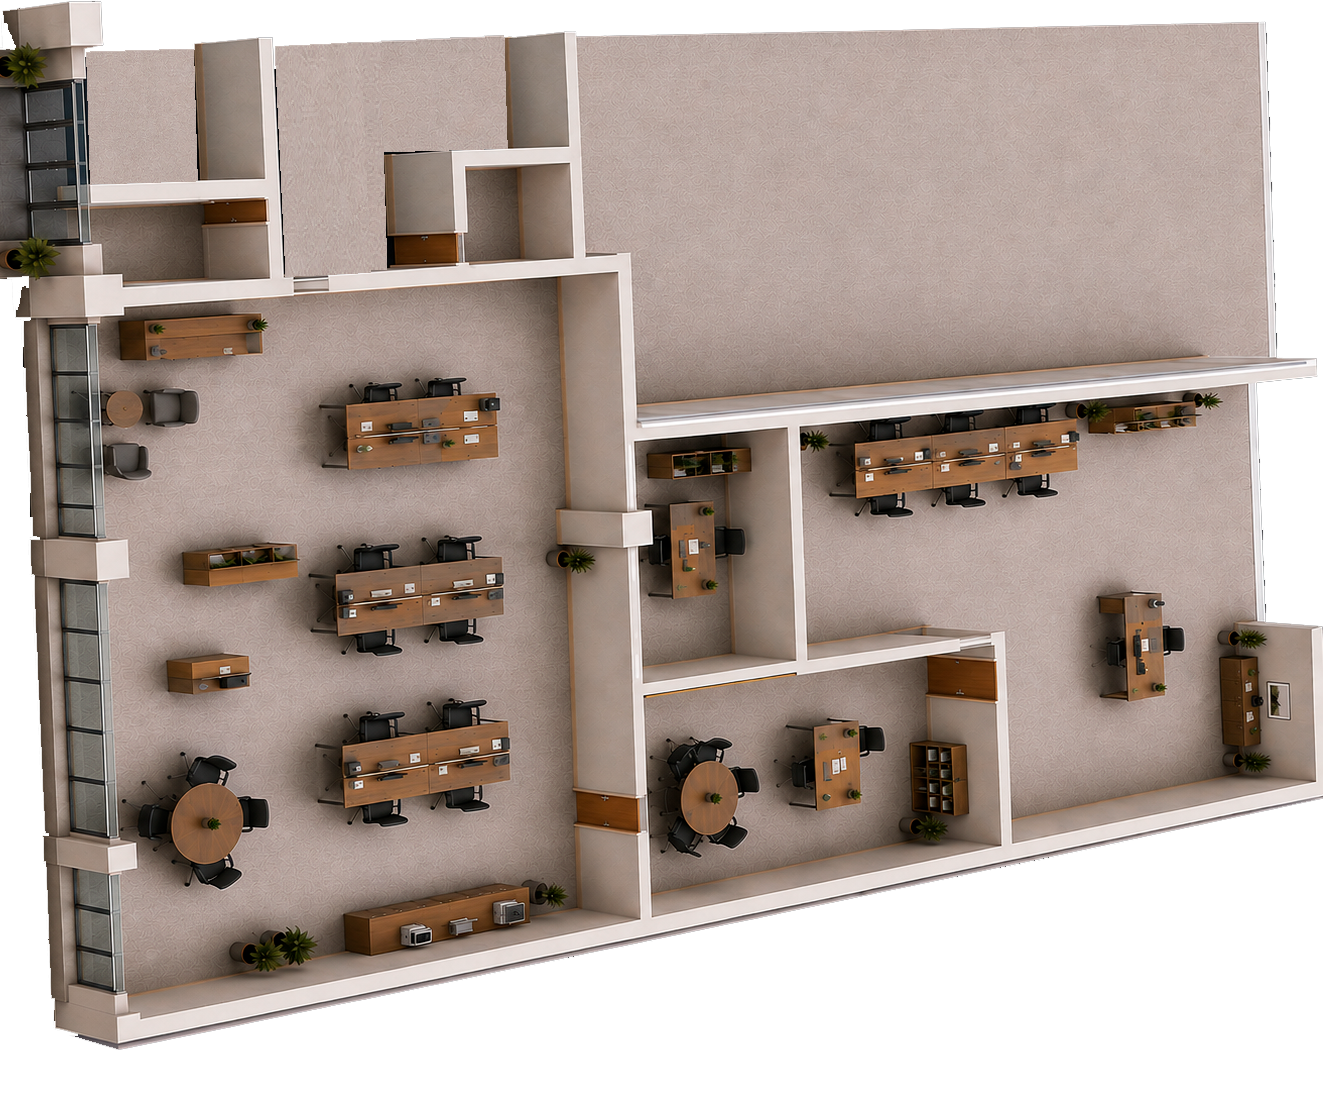
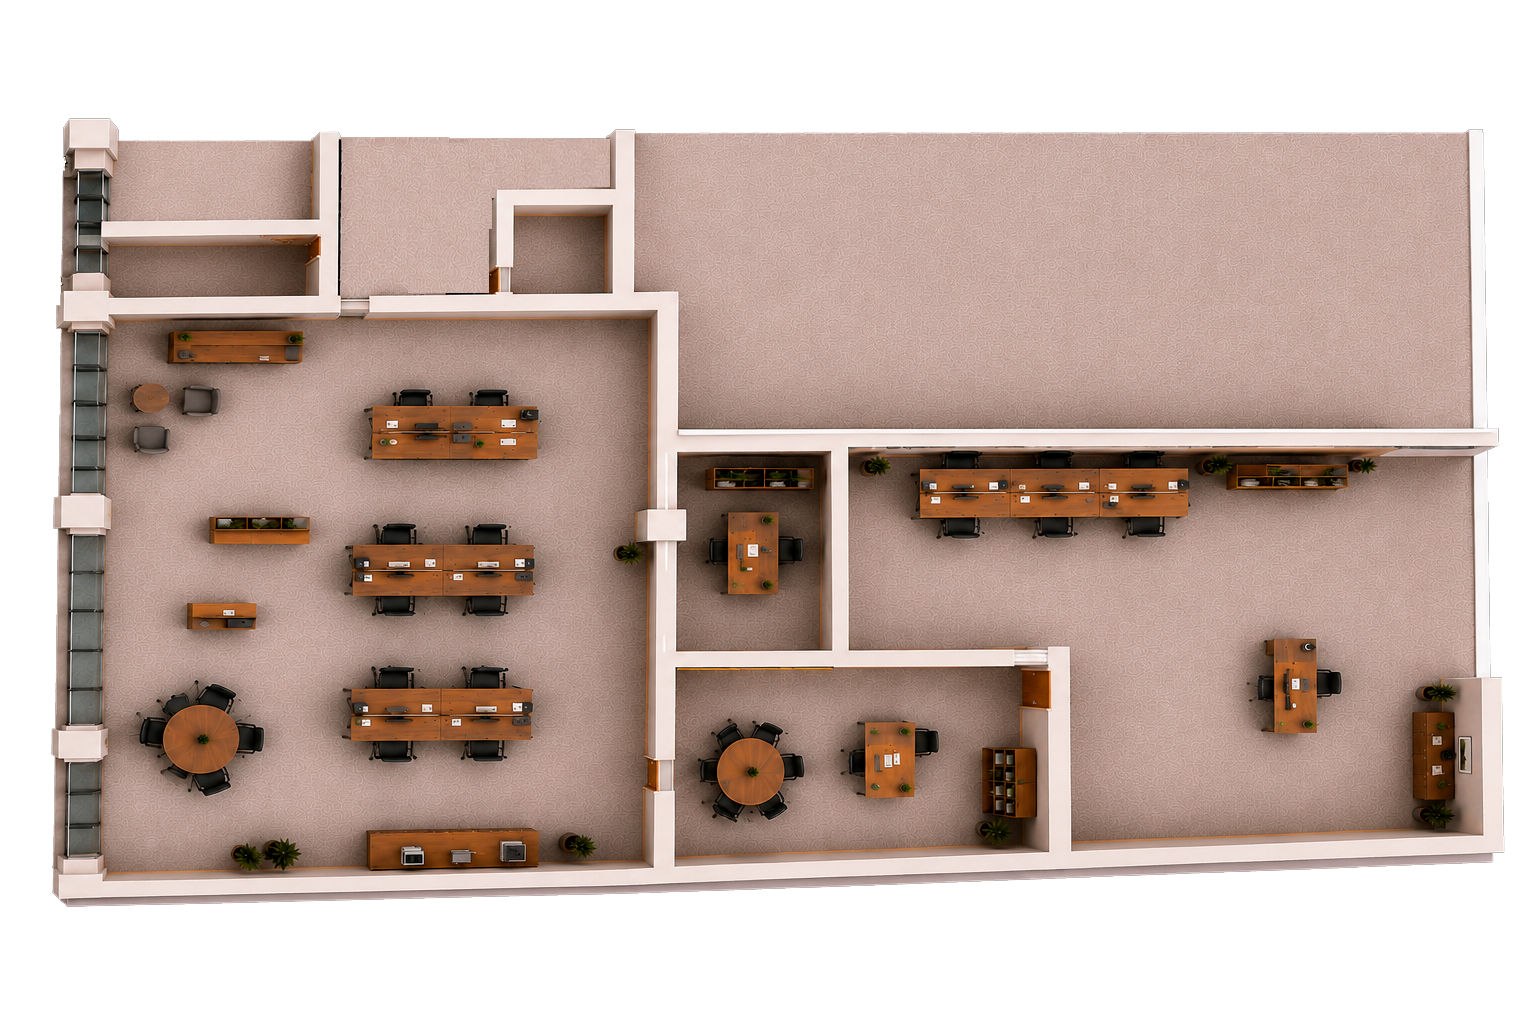
planta certa

diff --git a/src/routes/index.tsx b/src/routes/index.tsx
@@ -218,23 +218,23 @@ const sensorRegistry: Sensor[] = [
 ];
 
 const sensorMapPositions: Record<string, { x: number; y: number }> = {
-  // Distribuição provisória mais aberta e harmônica sobre a planta horizontal.
-  // Estes pontos devem ser recalibrados quando o cliente definir a posição física real.
-  "EM300-01": { x: 12, y: 69 },
-  "EM300-02": { x: 26, y: 66 },
-  "EM300-03": { x: 40, y: 69 },
-  "EM300-04": { x: 55, y: 66 },
-  "EM300-05": { x: 70, y: 69 },
-  "EM300-06": { x: 86, y: 66 },
-  "AM103L-07": { x: 12, y: 28 },
-  "AM103L-08": { x: 28, y: 24 },
-  "AM103L-09": { x: 44, y: 28 },
-  "AM103L-10": { x: 62, y: 24 },
-  "AM103L-11": { x: 82, y: 28 },
-  "AM103L-12": { x: 18, y: 47 },
-  "AM103L-13": { x: 38, y: 46 },
-  "AM103L-14": { x: 59, y: 48 },
-  "AM103L-15": { x: 78, y: 47 },
+  // Posições provisórias recalibradas para a planta Fleury final, horizontal e sem perspectiva.
+  // Estes pontos devem ser ajustados quando o cliente validar a posição física real dos sensores.
+  "EM300-01": { x: 14, y: 70 },
+  "EM300-02": { x: 32, y: 61 },
+  "EM300-03": { x: 43, y: 62 },
+  "EM300-04": { x: 55, y: 62 },
+  "EM300-05": { x: 64, y: 64 },
+  "EM300-06": { x: 88, y: 61 },
+  "AM103L-07": { x: 12, y: 34 },
+  "AM103L-08": { x: 30, y: 31 },
+  "AM103L-09": { x: 47, y: 34 },
+  "AM103L-10": { x: 66, y: 30 },
+  "AM103L-11": { x: 85, y: 36 },
+  "AM103L-12": { x: 20, y: 51 },
+  "AM103L-13": { x: 38, y: 50 },
+  "AM103L-14": { x: 56, y: 48 },
+  "AM103L-15": { x: 76, y: 48 },
 };
 
 function mapPosition(sensor: Sensor) {
@@ -995,15 +995,15 @@ function DigitalTwinMap({ sensors, layer, period, onLayerChange, onSelectSensor 
       <div className="relative rounded-xl overflow-hidden border border-white/10 bg-[radial-gradient(circle_at_50%_45%,rgba(14,165,233,.13),transparent_48%),linear-gradient(135deg,#020617,#071426_55%,#020617)] h-full min-h-0">
         <div className="absolute inset-0 bg-[radial-gradient(circle_at_52%_52%,rgba(56,189,248,.09),transparent_46%)]" />
         <div className="floorplan-stage absolute inset-0 overflow-hidden">
-          <div className="absolute left-1/2 top-1/2 w-[55%] max-w-[820px] aspect-[1323/1104] origin-center drop-shadow-[0_34px_90px_rgba(0,0,0,.72)]" style={{ transform: "translate(-50%, -50%)" }}>
-            <div className="absolute inset-0 overflow-hidden rounded-[10px]" style={{ clipPath: "inset(0 0 7.5% 0)" }}>
-              <img src={floorPlan} alt="Planta 3D termográfica Fleury" className="absolute inset-0 w-full h-full object-contain object-center select-none" width={1323} height={1104} />
+          <div className="absolute left-1/2 top-1/2 w-[68%] max-w-[980px] aspect-[3/2] origin-center drop-shadow-[0_34px_90px_rgba(0,0,0,.72)]" style={{ transform: "translate(-50%, -50%)" }}>
+            <div className="absolute inset-0 overflow-hidden rounded-[10px]" >
+              <img src={floorPlan} alt="Planta 3D termográfica Fleury" className="absolute inset-0 w-full h-full object-contain object-center select-none" width={1536} height={1024} />
               <div className="absolute inset-0 transition-opacity duration-700 mix-blend-screen opacity-95" style={{ ...heatmapMask, background: heatBackground, filter: "blur(22px) saturate(2.35) contrast(1.34)" }} />
               <div className="absolute inset-0 transition-opacity duration-700 mix-blend-color-dodge opacity-50" style={{ ...heatmapMask, background: heatBackground, filter: "blur(48px) saturate(2.15)" }} />
               <div className="absolute inset-0 transition-opacity duration-700 mix-blend-overlay opacity-[.14]" style={{ ...heatmapMask, background: "repeating-radial-gradient(circle at 50% 50%, rgba(255,255,255,.16) 0 1px, transparent 1px 22px)", filter: "blur(.2px)" }} />
               <div className="absolute inset-0 bg-[radial-gradient(circle_at_50%_52%,rgba(255,255,255,.035),transparent_55%)]" />
             </div>
-            <div className="absolute inset-0 z-20 pointer-events-none" style={{ clipPath: "inset(0 0 7.5% 0)" }}>
+            <div className="absolute inset-0 z-20 pointer-events-none" >
               {visibleSensors.map((s) => {
                 const pos = mapPosition(s);
                 return (

diff --git a/README_AJUSTE_17_PLANTA_FINAL.md b/README_AJUSTE_17_PLANTA_FINAL.md
@@ -1,0 +1,11 @@
+# Ajuste 17 — Planta Fleury final
+
+Alterações aplicadas:
+
+- Substituição da planta base por `planta fleury final.png`.
+- Remoção de perspectiva/skew/rotação da planta.
+- Planta mantida horizontal com proporção 3:2.
+- Recalibração provisória dos 15 sensores para a nova planta.
+- Camadas de heatmap e sensores mantidas separadas, evitando distorção nos textos.
+- Mantidas as escalas de temperatura, umidade e CO₂ definidas anteriormente.
+- `vite.config.ts` preservado.
